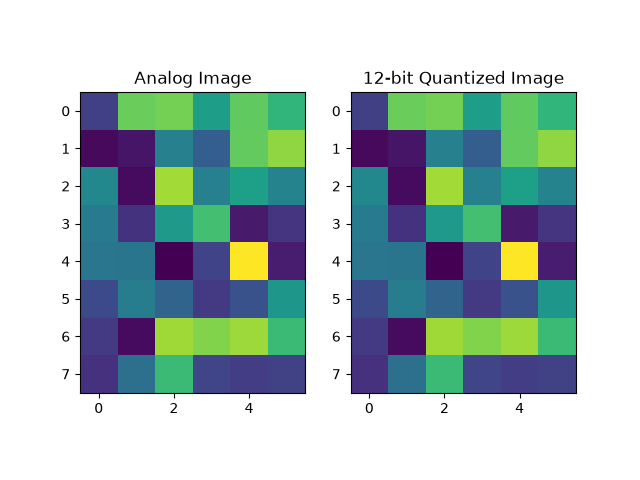
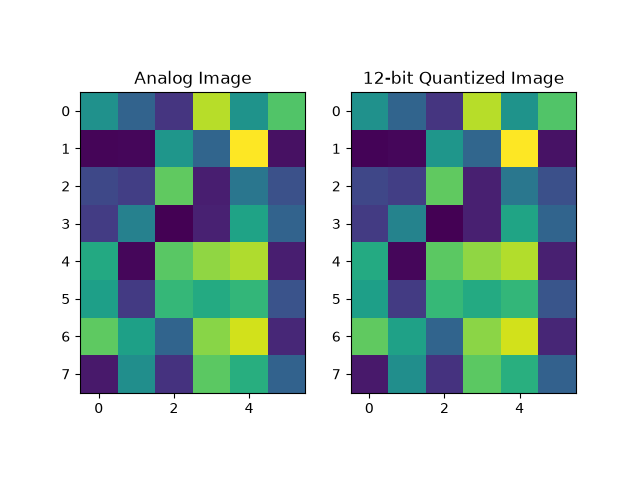
Using custom d2a blocks

diff --git a/xschem/test/gen_pixel_array.py b/xschem/test/gen_pixel_array.py
@@ -15,13 +15,18 @@ index = 100
 lines += [".include ../parax/ip_column_switch.sim.spice"]
 lines += [".include ../parax/ip_pixel_nd2ps.sim.spice"]
 
+
+lines += [".model 3v3_d2a dac_bridge(out_low=0.0 out_high=3.3 t_rise=100e-12 t_fall=100e-12)"]
+
+lines += ["A_d2_reset [dreset] [reset] 3v3_d2a"]
+
 for i in range(NCOLS):
-    lines += [f"RnCY{i}  nCY{i} 0 100k"]
+    lines += [f"A_d2a_c{i} [dCY{i}] [nCY{i}] 3v3_d2a"]
 
 lines += [""]
 
 for i in range(NROWS):
-    lines += [f"RnRY{i}  nRY{i} 0 100k"]
+    lines += [f"A_d2a_r{i} [dRY{i}] [nRY{i}] 3v3_d2a"]
 
 lines += [""]
 
@@ -34,7 +39,7 @@ lines += [""]
 for i in range(NCOLS):
     for j in range(NROWS):
         lines += [f"x{index} 0 VDD reset cl{i} nRY{j} ip_pixel_nd2ps_parax"]
-        lines += [f"IPX{index}  x{index}.siminj  0 {random.randrange(32)}p"]
+        lines += [f"IPX{index}  x{index}.siminj  0 {random.random()*3.2}p"]
         index += 1
 
 with open("simulation/pixels.spice","w") as f:
